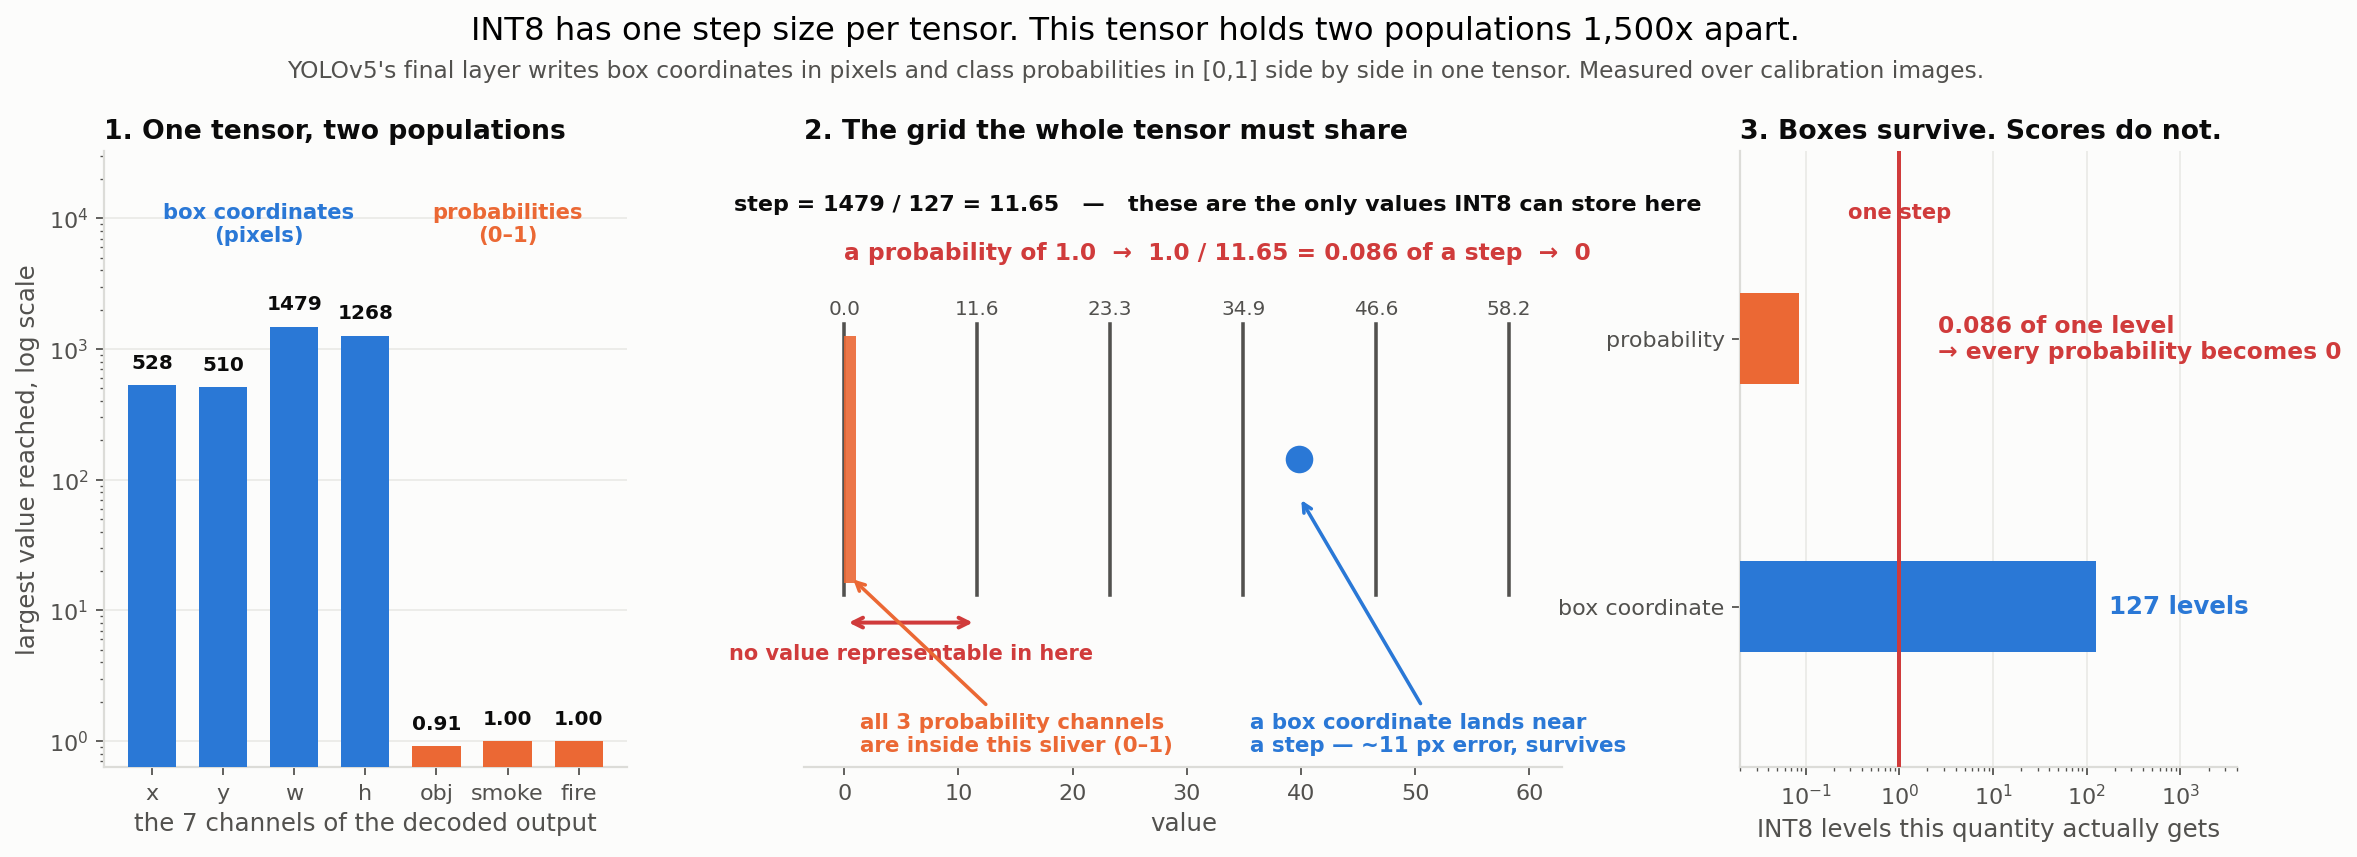
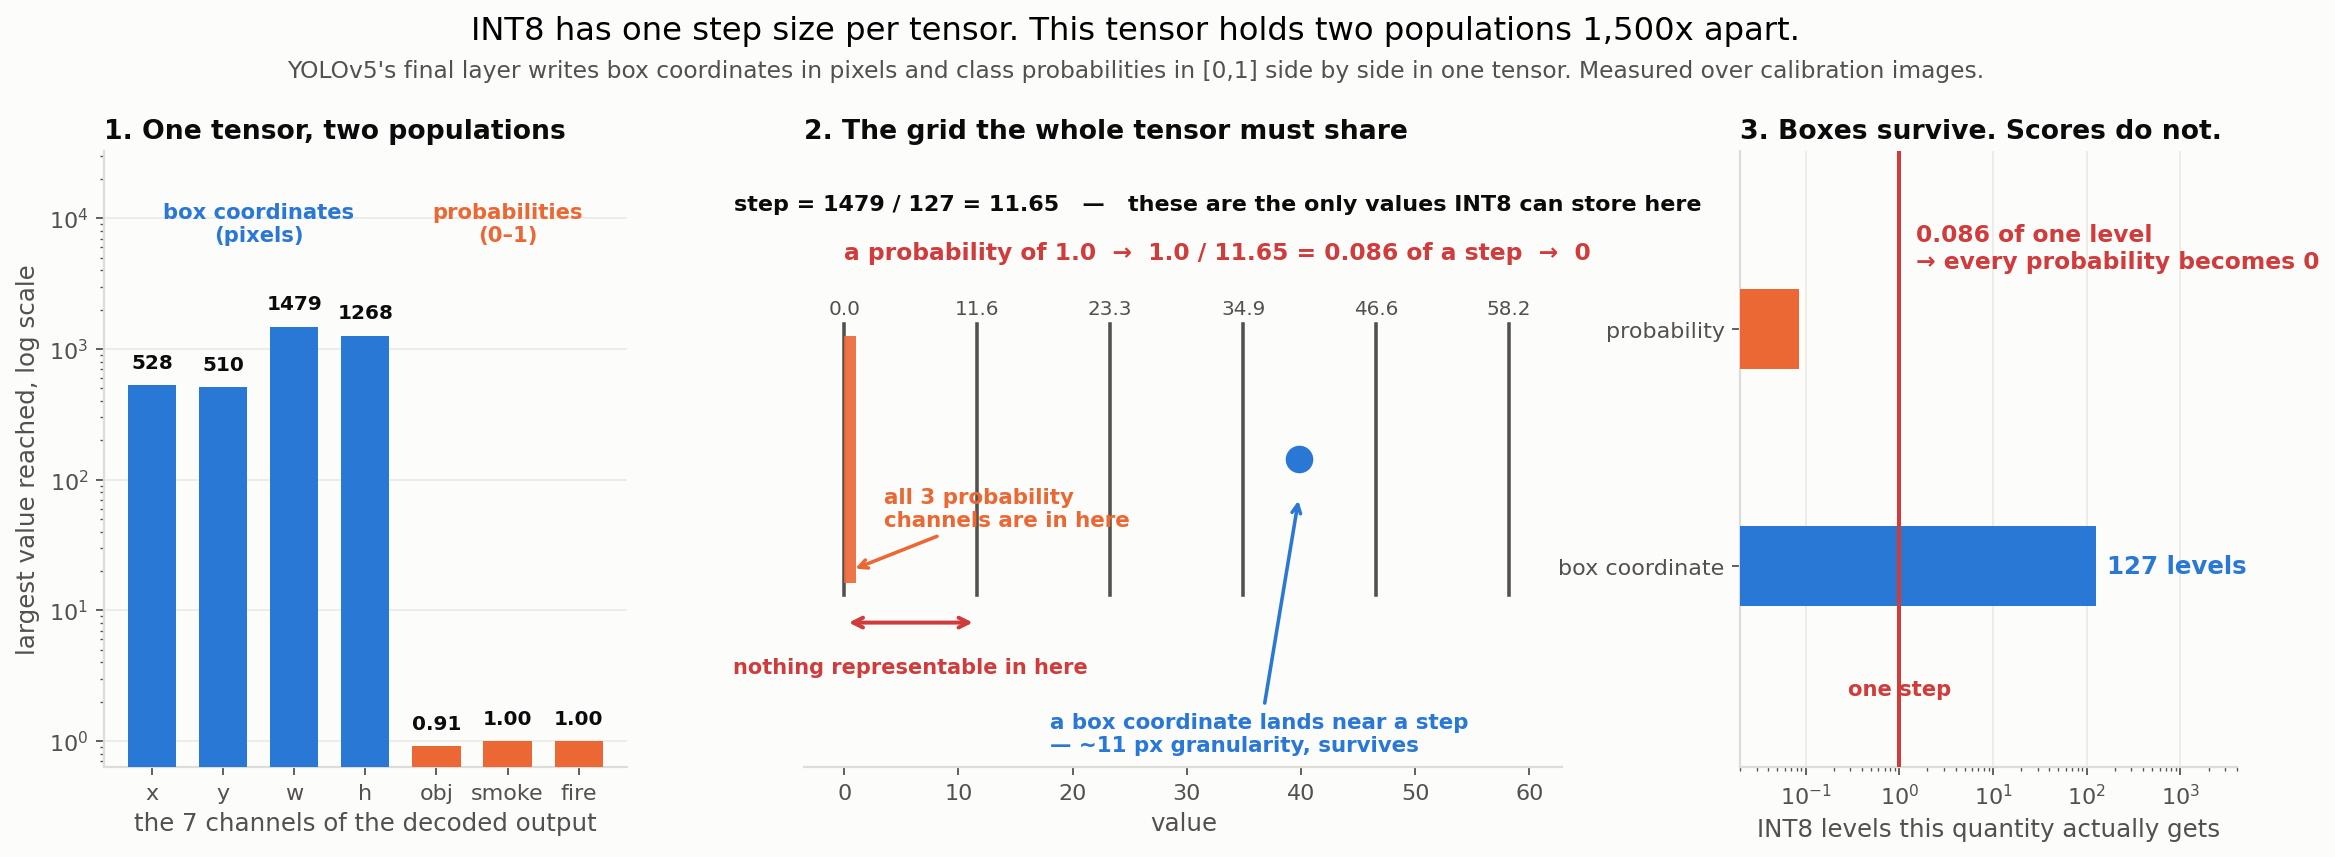
XP7: separate the head figure's callouts, and say how the gap is bridged
Panels 2 and 3 had callouts sharing bands: the probability and box annotations
sat on the same row, and "one step" collided with the panel title while the red
line struck through its own label. Each now has its own region.

The text also stopped short of the obvious follow-up -- if the step is 11.65 and
a probability is 1.0, is that simply dead? It is dead only for one uniform grid
shared by one tensor, and the page now lists what removes the constraint:

  don't quantize the decode        keep it float, negligible FLOPs   TRT default
  split the tensor                 boxes and scores get own scales   E6 arm 3
  per-channel activation scales    both populations fit              TRT: no
  a format with an exponent        no shared grid at all             no FP8 here

Two of the four are standard practice, which is why this failure is a curiosity
rather than a blocker. The third is worth naming precisely: per-channel
activation quantization would solve it outright, and its absence is a runtime
limitation rather than a mathematical one.

diff --git a/analysis/make_figures.py b/analysis/make_figures.py
@@ -2465,22 +2465,21 @@ def fig_xp07_head(records) -> Path | None:
                            alpha=0.9, zorder=4))
     ax.annotate("", xy=(0, 0.235), xytext=(step, 0.235),
                 arrowprops=dict(arrowstyle="<->", color=style.RED, lw=1.8))
-    ax.text(step * 0.5, 0.175, "no value representable in here",
+    ax.text(step * 0.5, 0.152, "nothing representable in here",
             ha="center", fontsize=9.4, color=style.RED, fontweight="bold")
 
     # Two callouts, one per population, pushed to opposite ends of the axis so
     # they cannot share a band.
-    ax.annotate(f"all {len(names) - int(is_box.sum())} probability channels\n"
-                f"are inside this sliver (0–{pmax:g})",
-                xy=(pmax * 0.5, 0.31), xytext=(step * 0.12, 0.055),
+    ax.annotate(f"all {len(names) - int(is_box.sum())} probability\nchannels are in here",
+                xy=(pmax * 0.6, 0.32), xytext=(step * 0.30, 0.42),
                 ha="left", va="center", fontsize=9.6, color=style.ORANGE,
                 fontweight="bold",
                 arrowprops=dict(arrowstyle="->", color=style.ORANGE, lw=1.6))
 
     bx = 3 * step + step * 0.42
     ax.scatter([bx], [0.50], s=130, color=style.BLUE, zorder=6)
-    ax.annotate("a box coordinate lands near\na step — ~11 px error, survives",
-                xy=(bx, 0.44), xytext=(step * 3.05, 0.055), ha="left", va="center",
+    ax.annotate("a box coordinate lands near a step\n— ~11 px granularity, survives",
+                xy=(bx, 0.44), xytext=(step * 1.55, 0.055), ha="left", va="center",
                 fontsize=9.6, color=style.BLUE, fontweight="bold",
                 arrowprops=dict(arrowstyle="->", color=style.BLUE, lw=1.6))
 
@@ -2496,13 +2495,14 @@ def fig_xp07_head(records) -> Path | None:
             color=[style.BLUE, style.ORANGE], zorder=3, height=0.34)
     ax.set_xscale("log"); ax.set_xlim(0.02, 4000)
     ax.axvline(1.0, color=style.RED, lw=1.8, zorder=4)
-    ax.text(1.0, 1.45, "one step", fontsize=9.5, color=style.RED,
-            fontweight="bold", ha="center")
-    ax.text(lb * 1.35, 0, f"{lb:.0f} levels", va="center", fontsize=11,
+    ax.text(1.0, -0.52, "one step", fontsize=9.5, color=style.RED,
+            fontweight="bold", ha="center", va="center")
+    ax.text(lb * 1.30, 0, f"{lb:.0f} levels", va="center", fontsize=11,
             color=style.BLUE, fontweight="bold")
-    ax.text(2.6, 1, f"{lp:.3f} of one level\n→ every probability becomes 0",
+    # Starts right of the "one step" line so the line does not strike through it.
+    ax.text(1.5, 1.34, f"{lp:.3f} of one level\n→ every probability becomes 0",
             va="center", ha="left", fontsize=10.5, color=style.RED, fontweight="bold")
-    ax.set_ylim(-0.6, 1.7)
+    ax.set_ylim(-0.85, 1.75)
     ax.set_xlabel("INT8 levels this quantity actually gets")
     ax.set_title("3. Boxes survive. Scores do not.", fontsize=12, loc="left")
     style.tidy(ax, ygrid=False)

diff --git a/experiments/xp07_quant/README.md b/experiments/xp07_quant/README.md
@@ -183,9 +183,19 @@ other.**
 > to measure what the default is protecting you from. The usual deployment recipe — export the
 > graph without the decode and do it in postprocessing — exists for exactly this reason.
 >
-> A format with an **exponent** would not have the problem at all, since small numbers would get
-> small steps. That is FP8, and this board has no FP8 silicon —
-> [measured](../../results/raw/xp07_precision_support.json), not assumed.
+> **Is the gap unbridgeable?** Only for *one uniform grid shared by one tensor*. Drop either
+> constraint and it goes away:
+>
+> | fix | what it does | available here? |
+> |---|---|---|
+> | **don't quantize the decode** | keep it in float — a negligible share of FLOPs | **yes** — TensorRT's default |
+> | **split the tensor** | boxes and scores as separate outputs, each with its own scale (11.65 and 0.0079) | **yes** — E6's decode-out arm |
+> | **per-channel activation scales** | one scale per channel instead of per tensor; both populations fit | **no** — TensorRT quantizes activations per-tensor only |
+> | **a format with an exponent** | small numbers get small steps; no shared grid at all | **no** — [no FP8 silicon on this board](../../results/raw/xp07_precision_support.json) |
+>
+> Two of the four are standard practice, which is why this failure is a curiosity rather than a
+> blocker. The third is a **runtime limitation, not a mathematical one** — per-channel activation
+> quantization would solve it outright.
 
 That asymmetry is the fingerprint XP10 saw and could not explain: mAP50 0.2554, tiny plumes −99%,
 while the night slice still held 0.48 — **box regression destroyed, classification limping on.**
